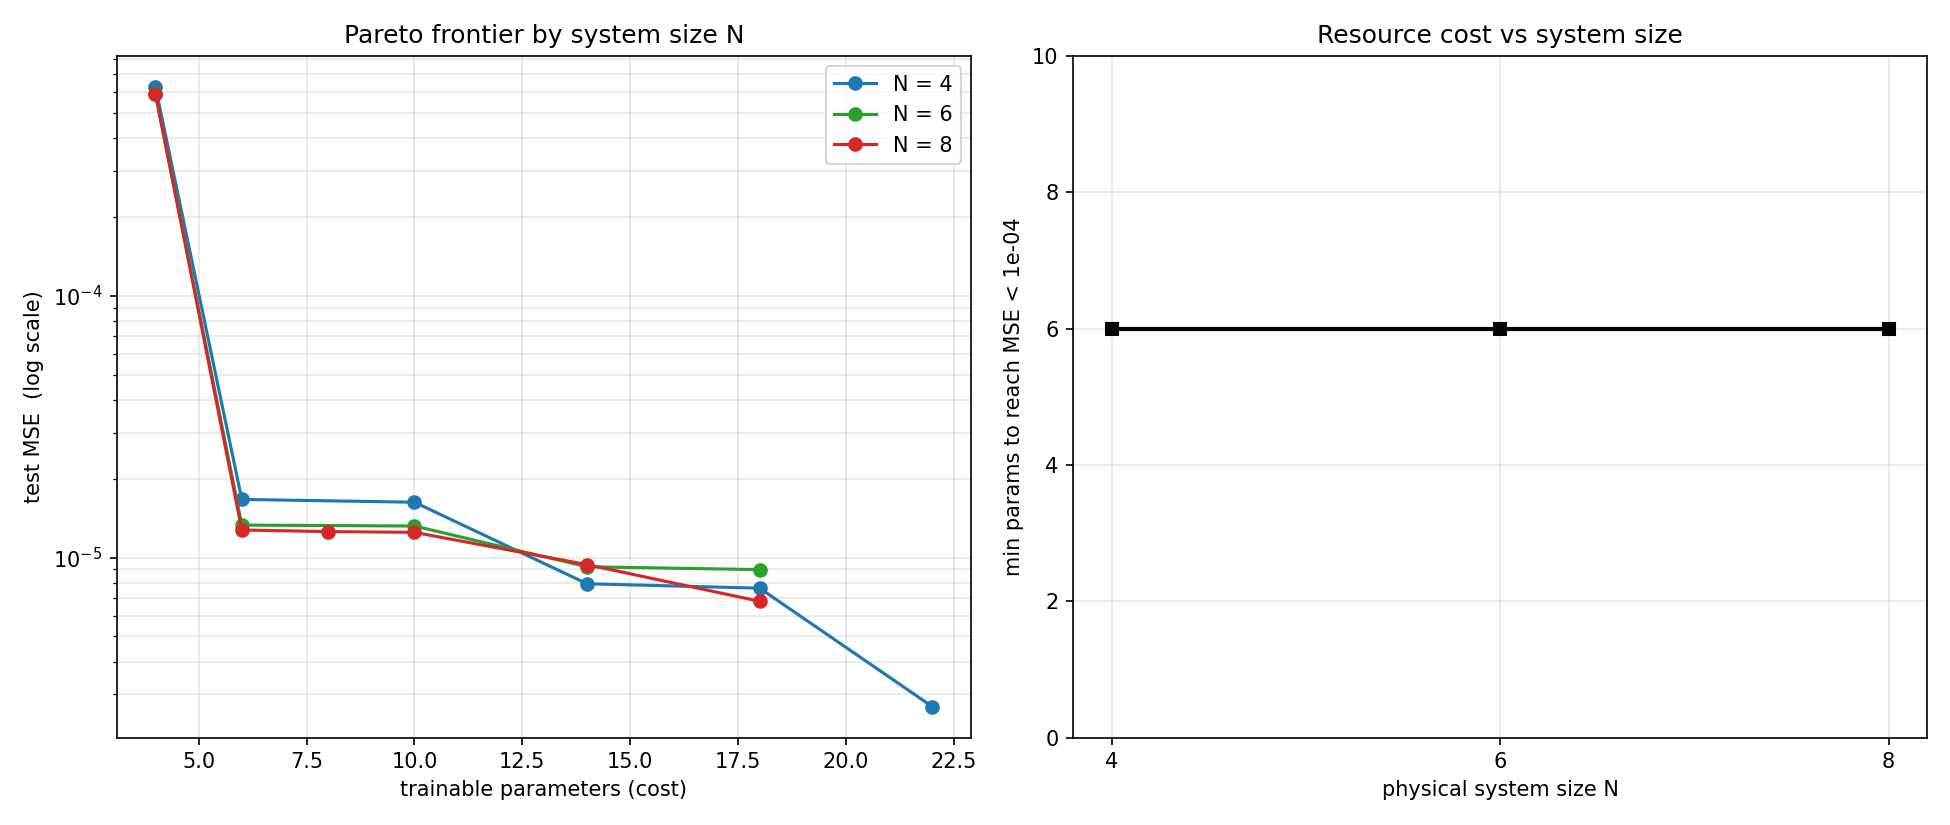
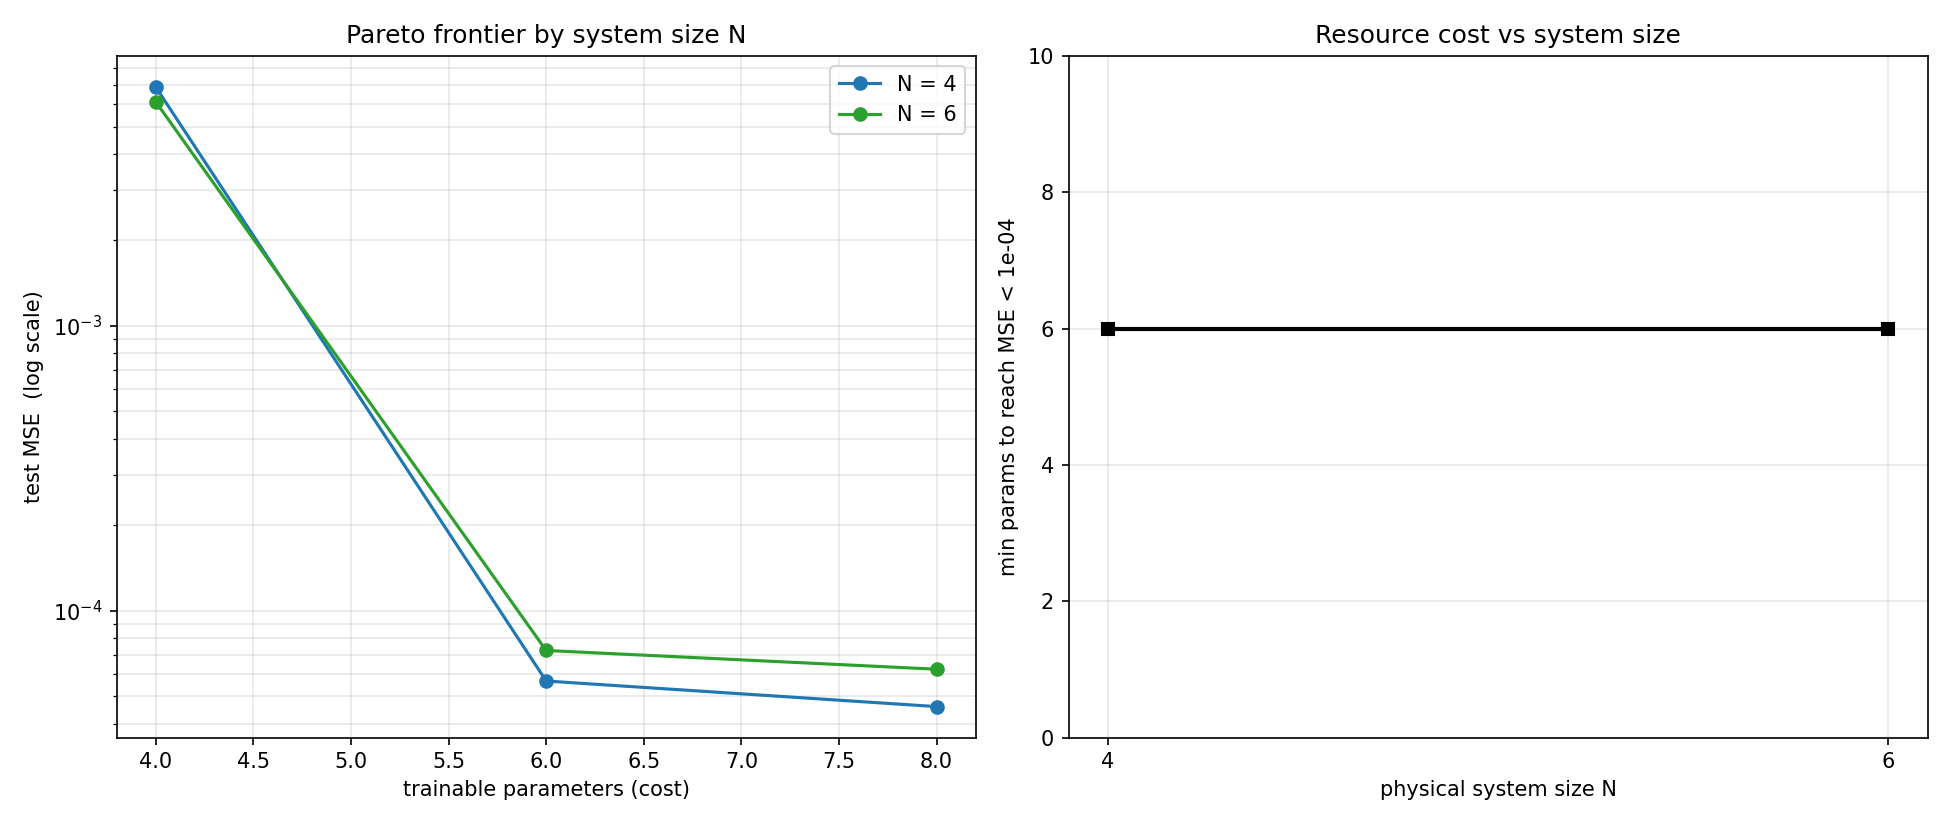
SU(2) QCD model scaling

diff --git a/src/hamiltonian.py b/src/hamiltonian.py
@@ -1,78 +1,140 @@
-"""Lattice Schwinger model: Pauli operators, Hamiltonian (Ikeda eq. 3),
-and the chiral condensate operator.
-
-Migrated verbatim from the validated test.ipynb. These functions are the
-known-good baseline; do not change them without re-checking the N=4 result.
-"""
 import numpy as np
 from scipy.linalg import ishermitian
 
-
 def PauliX(pos, num_qubits):
     m = pos - 1
-    X = np.array([[0, 1],
+    # Define single-qubit Pauli-X and Identity
+    X = np.array([[0, 1], 
                   [1, 0]])
     I = np.identity(2)
+    
     operator = 1
     for i in range(num_qubits):
+        # Apply X at the nth position (0-indexed), and I everywhere else
         current_gate = X if i == m else I
         operator = np.kron(operator, current_gate) if i > 0 else current_gate
+        
     return operator
-
 
 def PauliY(pos, num_qubits):
     m = pos - 1
-    Y = np.array([[0, -1j],
+    # Define single-qubit Pauli-Y and Identity
+    Y = np.array([[0, -1j], 
                   [1j, 0]])
     I = np.identity(2)
+    
     operator = 1
     for i in range(num_qubits):
+        # Apply Y at the nth position (0-indexed), and I everywhere else
         current_gate = Y if i == m else I
         operator = np.kron(operator, current_gate) if i > 0 else current_gate
+        
     return operator
-
 
 def PauliZ(pos, num_qubits):
     m = pos - 1
-    Z = np.array([[1, 0],
+    # Define single-qubit Pauli-Z and Identity
+    Z = np.array([[1, 0], 
                   [0, -1]])
     I = np.identity(2)
+    
     operator = 1
     for i in range(num_qubits):
+        # Apply Z at the nth position (0-indexed), and I everywhere else
         current_gate = Z if i == m else I
         operator = np.kron(operator, current_gate) if i > 0 else current_gate
+        
     return operator
 
+def sigma_plus(pos, num_qubits):
+    return 0.5 * (PauliX(pos, num_qubits) + 1j * PauliY(pos, num_qubits))
 
-def L_n(n, N):
-    """Cumulative electric-field operator L_n (Ikeda eq. 4), 1-indexed."""
-    temp = np.zeros((2**N, 2**N), dtype=complex)
-    for i in range(1, n + 1):
-        temp += (np.identity(2**N) * (-1)**i + PauliZ(i, N)) / 2
-    return temp
+def sigma_minus(pos, num_qubits):
+    return 0.5 * (PauliX(pos, num_qubits) - 1j * PauliY(pos, num_qubits))
 
 
-def build_hamiltonian(N, a=1, g=1, m=0.25, theta=0.0, boundary="open"):
-    """Lattice Schwinger Hamiltonian (Ikeda eq. 3) as a dense 2**N x 2**N matrix."""
-    H = np.zeros((2**N, 2**N), dtype=complex)
-    # hopping term
-    for i in range(1, N):
-        H += (PauliX(i, N) @ PauliX(i + 1, N) + PauliY(i, N) @ PauliY(i + 1, N)) / (4 * a)
-    # staggered mass term
-    for i in range(1, N + 1):
-        H += m * (-1)**i * PauliZ(i, N) / 2
-    # electric-field term
-    for i in range(1, N):
-        H += a * g**2 * L_n(i, N) @ L_n(i, N) / 2
-
-    if ishermitian(H):
-        return H
-    raise ValueError("Constructed Hamiltonian is not Hermitian.")
+def Q(i, n, N):
+    a = 2 * (n-1) + 1
+    b = 2 * (n-1) + 2
+    if i == 1:
+        return (sigma_plus(a, 2 * N) @ sigma_minus(b, 2 * N) + sigma_minus(a, 2 * N) @ sigma_plus(b, 2 * N)) / 2
+    if i == 2:
+        return (sigma_plus(a, 2 * N) @ sigma_minus(b, 2 * N) - sigma_minus(a, 2 * N) @ sigma_plus(b, 2 * N) ) / (2j)
+    if i == 3:
+        return (PauliZ(a, 2 * N) - PauliZ(b, 2 * N)) / 4
 
 
-def chiral_condensate_op(N):
-    """Chiral condensate operator: staggered sum of Z_n, normalized by N."""
-    op = np.zeros((2**N, 2**N), dtype=complex)
-    for n in range(1, N + 1):
-        op += (-1)**n * PauliZ(n, N)
-    return op / N
+
+
+
+def QQ(n, m, N):
+    """Sum over color index i of Q_i(n) @ Q_i(m), for the SU(2) electric term."""
+    dim = 2**(2*N)
+    out = np.zeros((dim, dim), dtype=complex)
+    for i in range(1, 4):
+        out += Q(i, n, N) @ Q(i, m, N)
+    return out
+
+
+    
+def electric_hamiltonian(N, J=1/8):
+    dim = 2**(2*N)
+    H_E = np.zeros((dim, dim), dtype=complex)
+
+    for n in range(1, N):
+        H_E += (N - n) * QQ(n, n, N)
+
+    for n in range(1, N-1):
+        for m in range(n+1, N):
+            H_E += 2 * (N - m) * QQ(n, m, N)
+    return J * H_E
+
+def mass_hamiltonian(N, m=0.5):
+    dim = 2**(2*N)
+    H_m = np.zeros((dim, dim), dtype=complex)
+    I = np.identity(dim)
+    for n in range(1, N+1):
+        for c in range(1, 3):                    
+            qubit = 2*(n-1) + c                   
+            H_m += m * (-1)**n * (PauliZ(qubit, 2*N) + I) / 2
+
+    return H_m
+
+def hopping_hamiltonian(N, w=1.0):
+    dim = 2**(2*N)
+    H_hop = np.zeros((dim, dim), dtype=complex)
+    nq = 2*N
+    for n in range(1, N):              # sites n = 1 .. N-1
+        for c in range(1, 3):          # colors c = 1, 2
+            # 0-indexed qubit positions:
+            l_n   = 2*(n-1) + (c-1)     # site n,   color c
+            l_np1 = 2*n     + (c-1)     # site n+1, color c
+            # JW string: product of (-PauliZ) over qubits strictly between
+            # k from l_n to l_np1 - 1  (0-indexed)  -> convert to 1-indexed (+1)
+            string = np.identity(dim, dtype=complex)
+            for k in range(l_n, l_np1):          # k = l_n .. l_np1 - 1
+                string = string @ (-PauliZ(k+1, nq))   # +1 for 1-indexed pos
+            # the two terms (note: sigma indices use 1-indexed positions too)
+            sp_n,   sm_n   = sigma_plus(l_n+1, nq),   sigma_minus(l_n+1, nq)
+            sp_np1, sm_np1 = sigma_plus(l_np1+1, nq), sigma_minus(l_np1+1, nq)
+            H_hop += sp_np1 @ string @ sm_n + sp_n @ string @ sm_np1
+    return w * H_hop
+
+
+def build_hamiltonian(N, m=0.5, w=1.0, J=1/8):
+    H = mass_hamiltonian(N, m) + hopping_hamiltonian(N, w) + electric_hamiltonian(N, J)
+    return H
+
+def condensate_op(N, w=1.0):
+    """Averaged chiral condensate, eq. 2.71 structure. Sign and shape validated
+    against J=0 free theory; absolute normalization not yet matched to the
+    paper's eq. 4.6 convention (irrelevant for QCL, which is scale-invariant)."""
+    L = N // 2
+    dim = 2**(2*N)
+    op = np.zeros((dim, dim), dtype=complex)
+    for n in range(1, L+1):
+        for c in range(1, 3):
+            q_even = 2*(2*n - 1) + c
+            q_odd  = 2*(2*n - 2) + c
+            op += w * 0.5 * (PauliZ(q_even, 2*N) - PauliZ(q_odd, 2*N))
+    return op / L

diff --git a/src/dataset.py b/src/dataset.py
@@ -1,25 +1,31 @@
 """Build (mass, condensate) datasets by exact diagonalization.
 Migrated from test.ipynb (get_chiral_based_on_m / build_dataset).
 """
+import sys
+from pathlib import Path
 import numpy as np
-from .hamiltonian import build_hamiltonian, chiral_condensate_op
+import matplotlib.pyplot as plt
+
+try:
+    from .hamiltonian import build_hamiltonian, condensate_op
+except ImportError:
+    # Support direct script execution: add project root to sys.path.
+    sys.path.insert(0, str(Path(__file__).resolve().parent))
+    from hamiltonian import build_hamiltonian, condensate_op
+
+def get_condensate_based_on_m(N, m, w=1.0, J=1/8):
+    H = build_hamiltonian(N, m=m, w=w, J=J)
+    evals, evecs = np.linalg.eigh(H)
+    gs = evecs[:, 0]                      
+    op = condensate_op(N, w=w)
+    return np.real(gs.conj() @ op @ gs)
 
 
-def get_chiral_based_on_m(N, m, a=1, g=1):
-    """Exact chiral condensate of the N-site ground state at mass m."""
-    H = build_hamiltonian(N, a=a, g=g, m=m, theta=0.0, boundary="open")
-    eigenvalues, P = np.linalg.eig(H)
-    ground_state_idx = np.argmin(eigenvalues)
-    ground_state_vector = P[:, ground_state_idx]
-    op = chiral_condensate_op(N)
-    expectation_value = np.vdot(ground_state_vector, op @ ground_state_vector)
-    return np.real(expectation_value)
-
-
-def build_dataset(N, m_max=2.0, num_points=31, m_min=0.1, a=1, g=1):
+def build_dataset(N, m_max=2.0, num_points=31, m_min=0.1, w=1.0, J=1/8):
     """Return a list of (m, condensate) pairs over the mass grid."""
     data = []
     for m in np.linspace(m_min, m_max, num_points):
-        chiral_value = get_chiral_based_on_m(N, m, a=a, g=g)
-        data.append((m, chiral_value))
+        condensate_value = get_condensate_based_on_m(N, m, w=w, J=J)
+        data.append((m, condensate_value))
     return data
+

diff --git a/experiments/phase4_depth_width_sweep.py b/experiments/phase4_depth_width_sweep.py
@@ -26,7 +26,8 @@ from src.dataset import build_dataset
 from src.model import make_circuit, encode_linear
 from src.train import train, test_mse, count_trainable_params
 
-SYSTEM_SIZES = [4, 6, 8]      # physical lattice sites (= 2^N Hilbert space)
+#SYSTEM_SIZES = [4, 6, 8]      # physical lattice sites (= 2^N Hilbert space)
+SYSTEM_SIZES = [4, 6] 
 QUBITS = [2, 3, 4]            # MODEL qubit count (independent of N)
 LAYERS = [1, 2, 3, 4, 5]
 SEEDS = [0, 1, 2]
@@ -38,7 +39,7 @@ os.makedirs("results", exist_ok=True)
 rows = []
 
 for N in SYSTEM_SIZES:
-    print(f"\n=== building dataset for N={N} (Hilbert dim {2**N}) ===")
+    print(f"\n=== building dataset for N={N} (Hilbert dim {2**(2*N)}) ===")
     data = build_dataset(N, m_max=M_MAX, num_points=NUM_POINTS)
     training_data, testing_data = train_test_split(
         data, test_size=0.2, random_state=42

diff --git a/experiments/pareto_plot.py b/experiments/pareto_plot.py
@@ -75,7 +75,7 @@ def main():
     plt.yscale("log")
     plt.xlabel("trainable parameters (cost)")
     plt.ylabel("test MSE  (log scale)")
-    plt.title("QCL accuracy vs cost for the Schwinger condensate (N=4)")
+    plt.title("QCL accuracy vs cost for the SU(2) QCD2 (N=4)")
     plt.legend()
     plt.grid(True, which="both", alpha=0.3)
     plt.tight_layout()